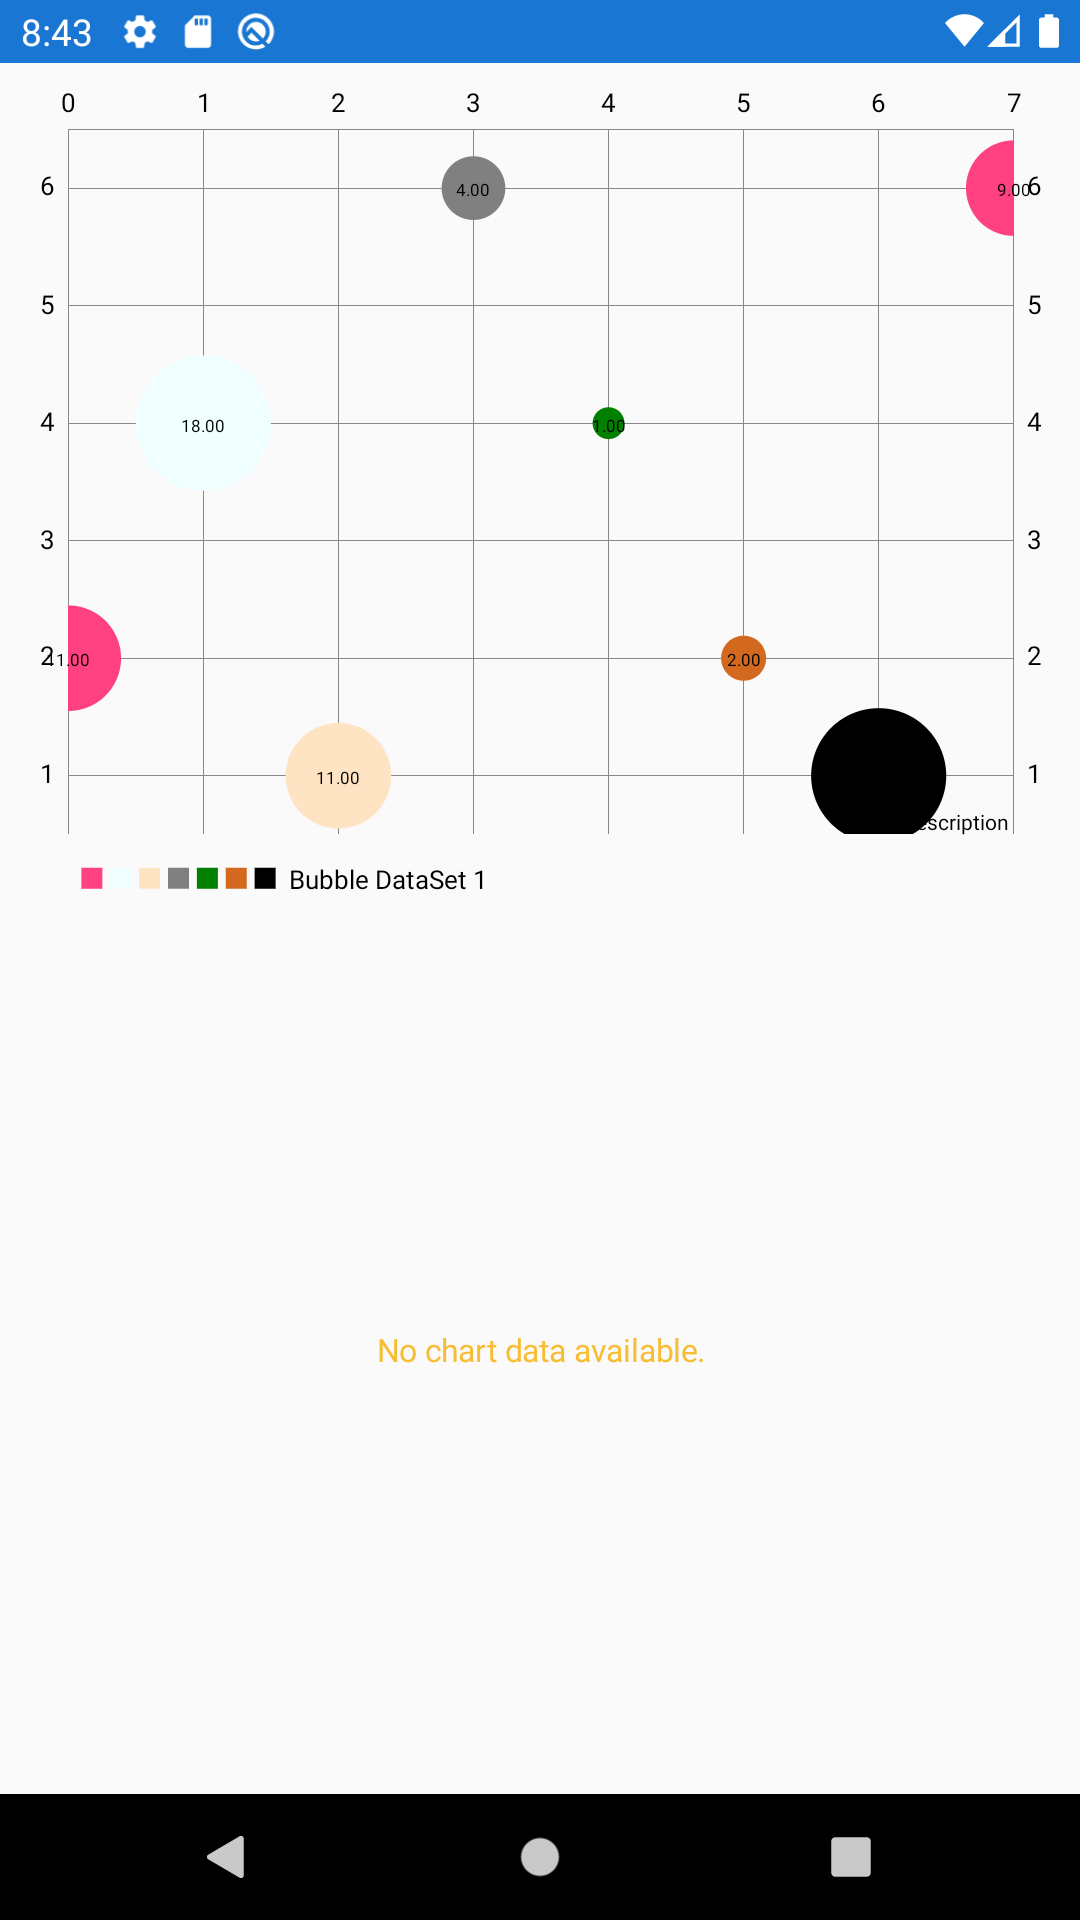
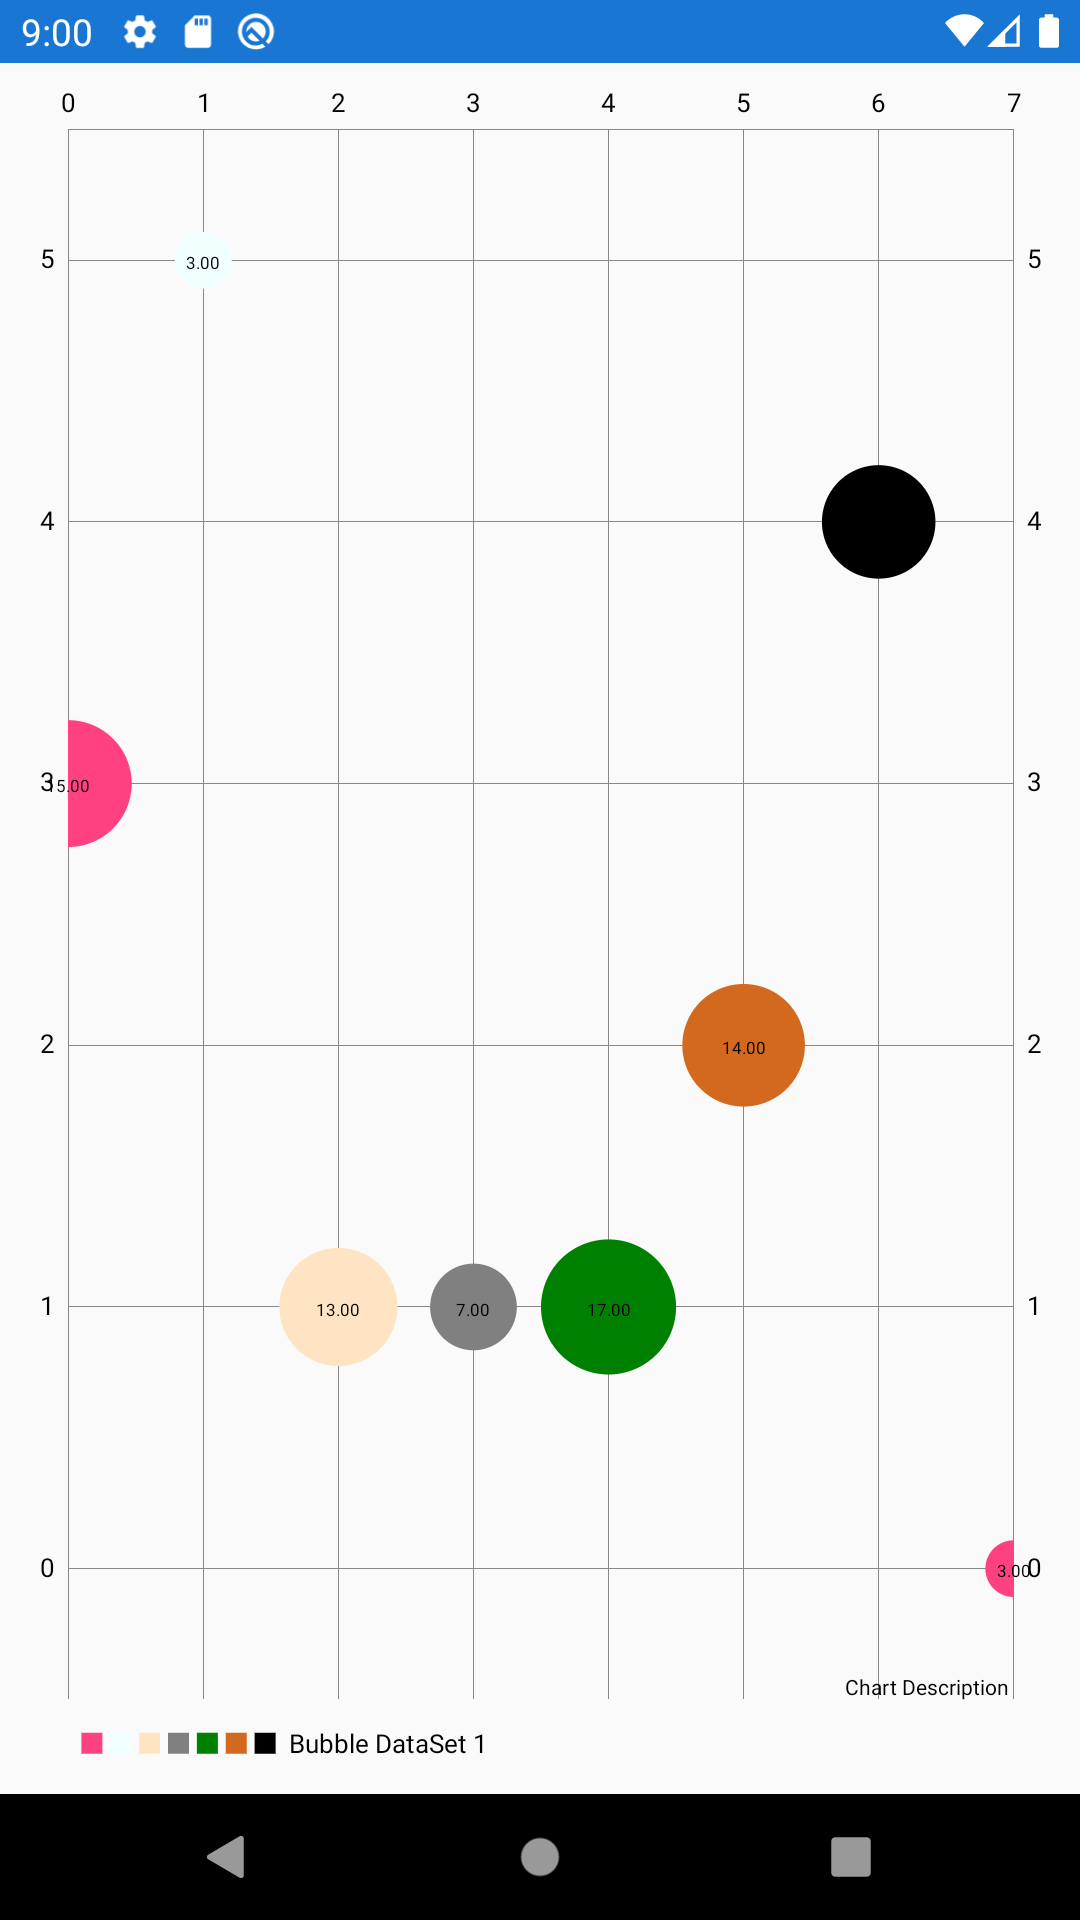
preview images and no graph items removed

diff --git a/GraphInXamarinForms/GraphInXamarinForms/MainPage.xaml b/GraphInXamarinForms/GraphInXamarinForms/MainPage.xaml
@@ -8,14 +8,15 @@
     <StackLayout>
         <ScrollView>
             <StackLayout>
-                <Button Clicked="Button_Clicked" Text="BarChartPage" />
-                <Button Clicked="Button_Clicked_1" Text="BubbleChartPage" />
-                <Button Clicked="Button_Clicked_2" Text="CandleStickChartPage" />
-                <Button Clicked="Button_Clicked_3" Text="CombinedChartPage" />
-                <Button Clicked="Button_Clicked_4" Text="HorizontalBarCharPage" />
-                <Button Clicked="Button_Clicked_5" Text="LineChartPage" />
-                <Button Clicked="Button_Clicked_6" Text="PieChartPage" />
-                <Button Clicked="Button_Clicked_7" Text="RadarChartPage" />
+                <Button Clicked="Button_Clicked" Text="Bar Chart" />
+                <Button Clicked="Button_Clicked_1" Text="Bubble Chart" />
+                <Button Clicked="Button_Clicked_2" Text="Candle StickChart" />
+                <Button Clicked="Button_Clicked_3" Text="Combined Chart" />
+                <Button Clicked="Button_Clicked_4" Text="Horizontal Bar Chart" />
+                <Button Clicked="Button_Clicked_5" Text="Line Chart" />
+                <Button Clicked="Button_Clicked_6" Text="Pie Chart" />
+                <Button Clicked="Button_Clicked_7" Text="Radar Chart" />
+                <Button Clicked="Button_Clicked_8" Text="Scatter Chart" />
             </StackLayout>
         </ScrollView>
 

diff --git a/GraphInXamarinForms/GraphInXamarinForms/BubbleChartPage.xaml b/GraphInXamarinForms/GraphInXamarinForms/BubbleChartPage.xaml
@@ -14,10 +14,7 @@
                 HorizontalOptions="FillAndExpand"
                 VerticalOptions="FillAndExpand" />
 
-            <ultimateChart:SupportBubbleChartExtended
-                x:Name="chart2"
-                HorizontalOptions="FillAndExpand"
-                VerticalOptions="FillAndExpand" />
+            
         </StackLayout>
     </ContentPage.Content>
 </ContentPage>

diff --git a/GraphInXamarinForms/GraphInXamarinForms/CandleStickChartPage.xaml b/GraphInXamarinForms/GraphInXamarinForms/CandleStickChartPage.xaml
@@ -14,10 +14,7 @@
                 HorizontalOptions="FillAndExpand"
                 VerticalOptions="FillAndExpand" />
 
-            <ultimateChart:SupportCandleStickChartExtended
-                x:Name="chart2"
-                HorizontalOptions="FillAndExpand"
-                VerticalOptions="FillAndExpand" />
+
         </StackLayout>
     </ContentPage.Content>
 </ContentPage>

diff --git a/GraphInXamarinForms/GraphInXamarinForms/MainPage.xaml.cs b/GraphInXamarinForms/GraphInXamarinForms/MainPage.xaml.cs
@@ -67,6 +67,12 @@ namespace GraphInXamarinForms
         private void Button_Clicked_7(object sender, EventArgs e)
         {
             Navigation.PushModalAsync(new RadarChartPage());
+            
+        }
+
+        private void Button_Clicked_8(object sender, EventArgs e)
+        {
+            Navigation.PushModalAsync(new ScatterChartPage());
         }
     }
 }
